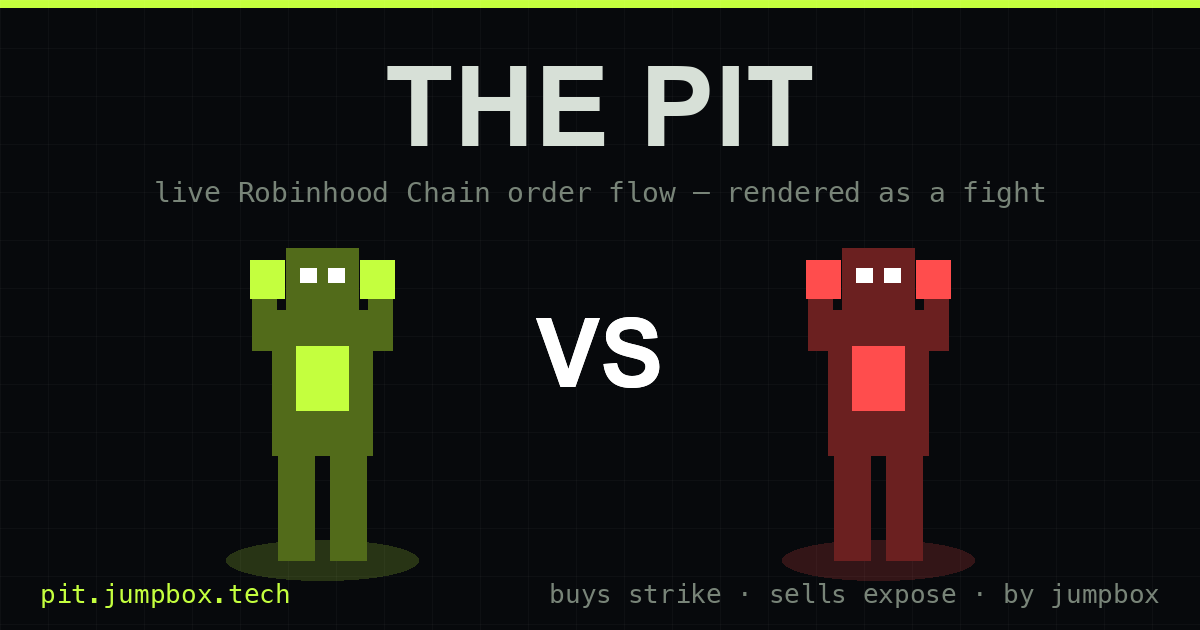
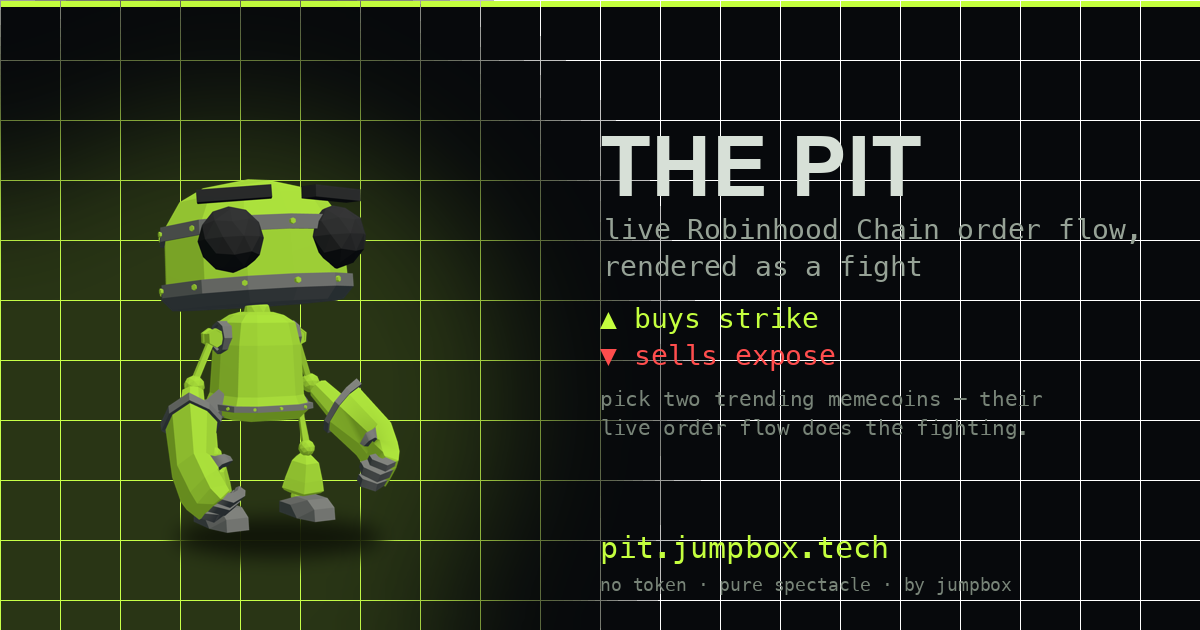
Pit: real-model promo/OG card, fainter OG grid, fix pager overlap
- og.png regenerated with the actual rendered RobotExpressive model (headless
  WebGL capture) on the left + info on the right; grid dialed way back.
- selection: sticky footer (taller with the counter) was overlapping the pager
  so "next" wasn't clickable — added bottom clearance + lifted the pager above it.

diff --git a/src/app/globals.css b/src/app/globals.css
@@ -55,7 +55,7 @@ html, body { margin: 0; height: 100%; background: var(--bg); color: var(--fg); f
 .endbtns button { font-family: var(--mono); font-size: 14px; color: var(--bg); background: var(--lime); border: none; padding: 12px 22px; cursor: pointer; font-weight: 700; letter-spacing: .04em; }
 
 /* ---------------- selection screen ---------------- */
-.select { position: fixed; inset: 0; overflow-y: auto; padding: 40px 22px 60px; max-width: 1000px; margin: 0 auto; }
+.select { position: fixed; inset: 0; overflow-y: auto; padding: 40px 22px 180px; max-width: 1000px; margin: 0 auto; }
 .s-head { text-align: center; margin-bottom: 26px; }
 .s-head h1 { margin: 0; font-size: 40px; font-weight: 800; letter-spacing: .16em; color: var(--fg); text-shadow: 0 0 28px rgba(196,255,62,.18); }
 .s-sub { color: var(--muted); font-size: 12.5px; margin-top: 8px; letter-spacing: .04em; }
@@ -97,7 +97,7 @@ html, body { margin: 0; height: 100%; background: var(--bg); color: var(--fg); f
 .mst { font-size: 10.5px; color: var(--muted); }
 .mst .buy { color: var(--lime); } .mst .sell { color: var(--red); }
 .mpick { width: 54px; text-align: right; font-size: 10px; color: var(--c); flex-shrink: 0; letter-spacing: .04em; }
-.pager { display: flex; align-items: center; justify-content: center; gap: 14px; margin: 16px 0 4px; color: var(--muted); font-size: 12px; }
+.pager { display: flex; align-items: center; justify-content: center; gap: 14px; margin: 18px 0 8px; color: var(--muted); font-size: 12px; position: relative; z-index: 2; }
 .pager button { font-family: var(--mono); background: transparent; border: 1px solid #1a221a; color: var(--fg); padding: 6px 13px; cursor: pointer; border-radius: 6px; }
 .pager button:disabled { opacity: .35; cursor: not-allowed; }
 